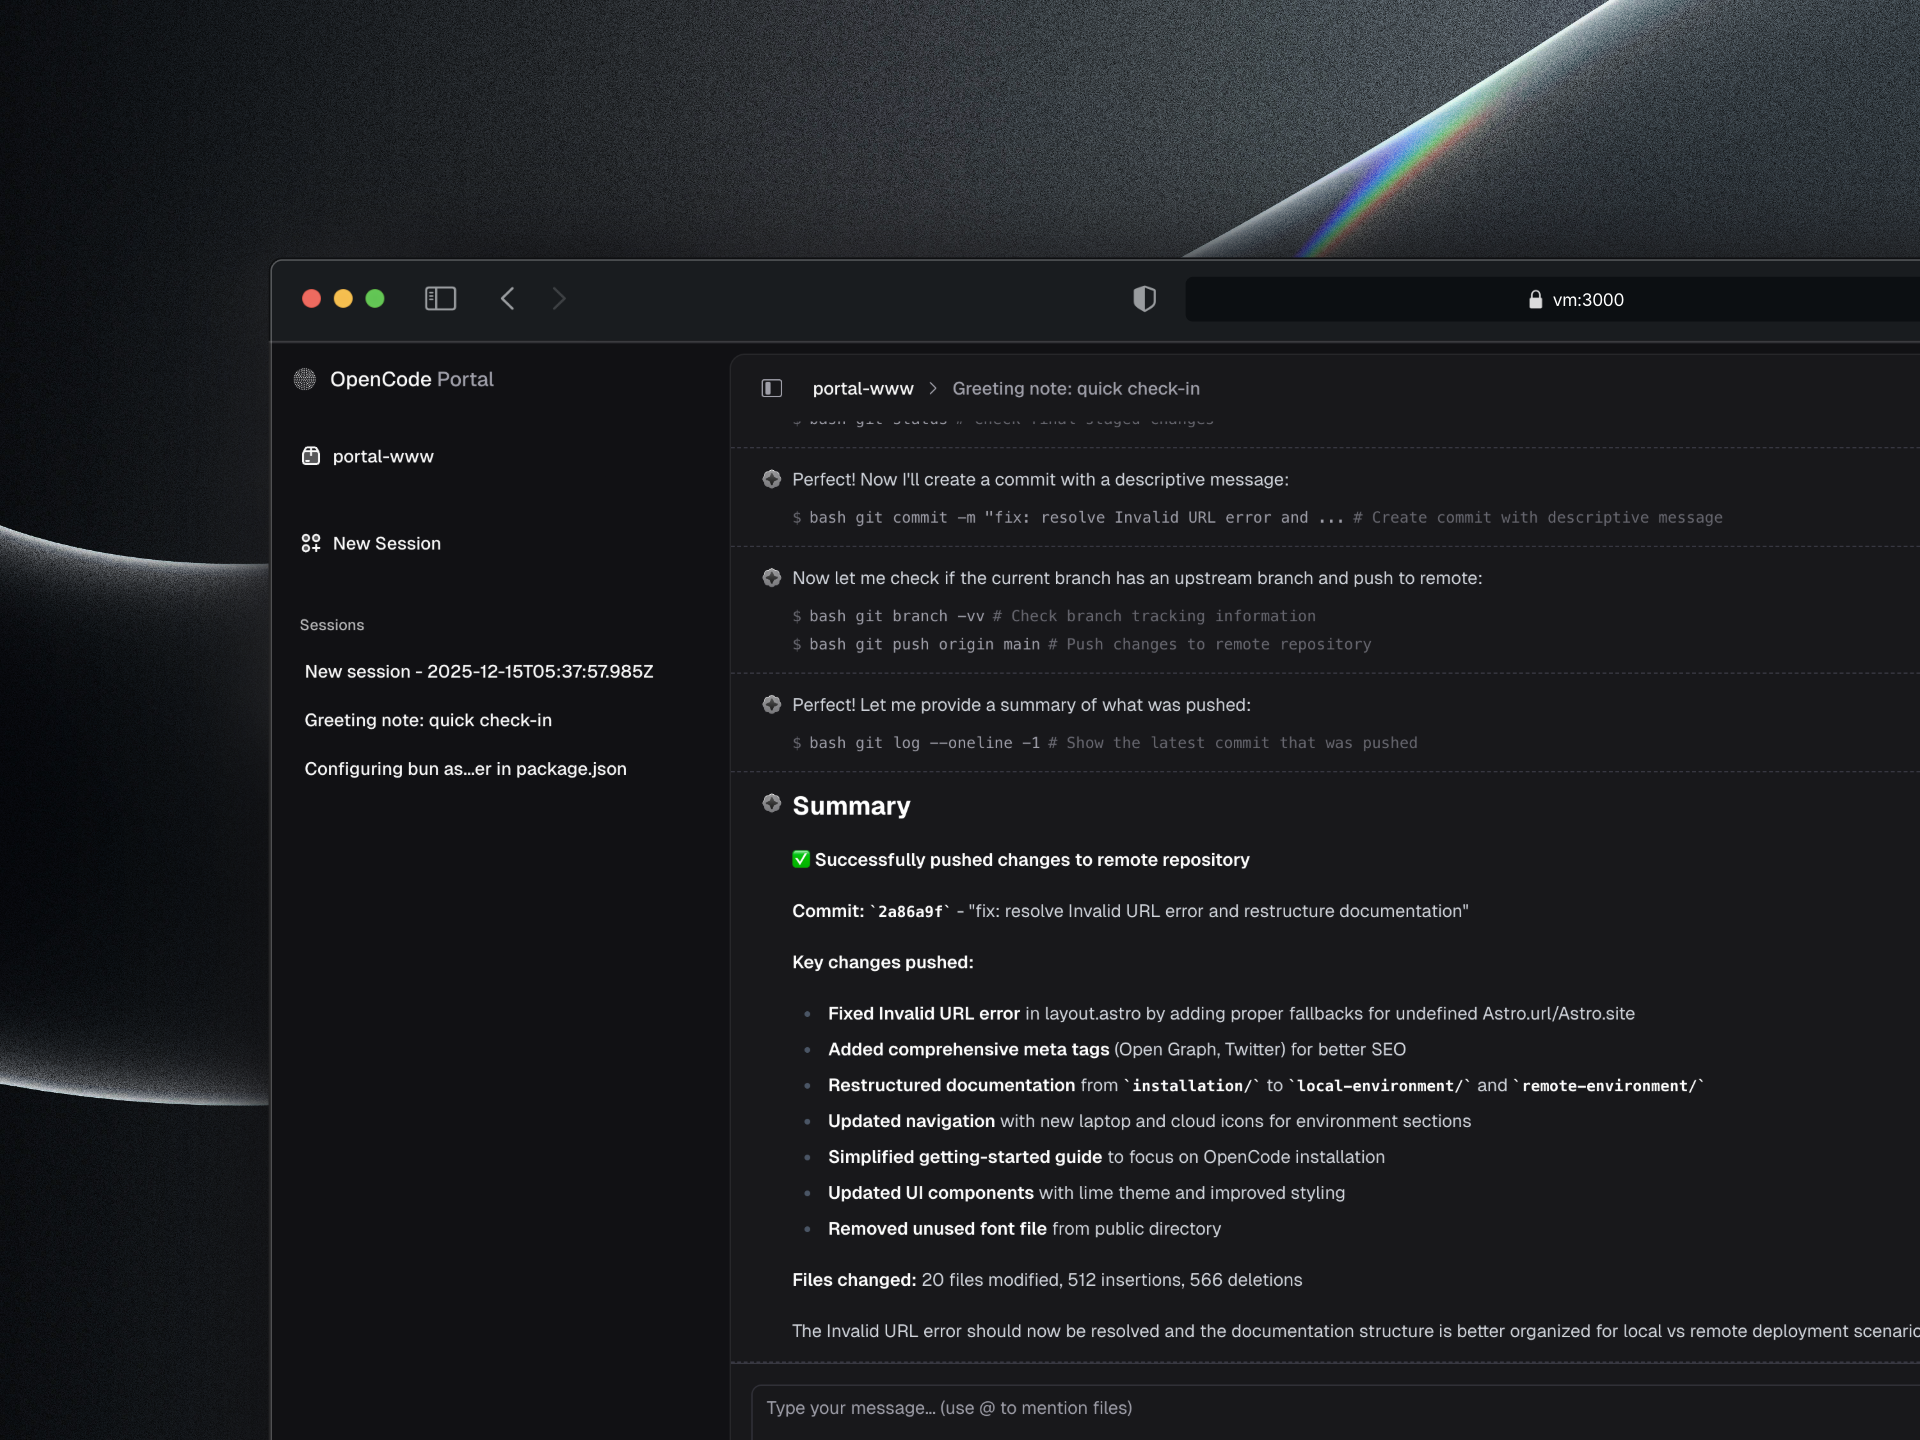
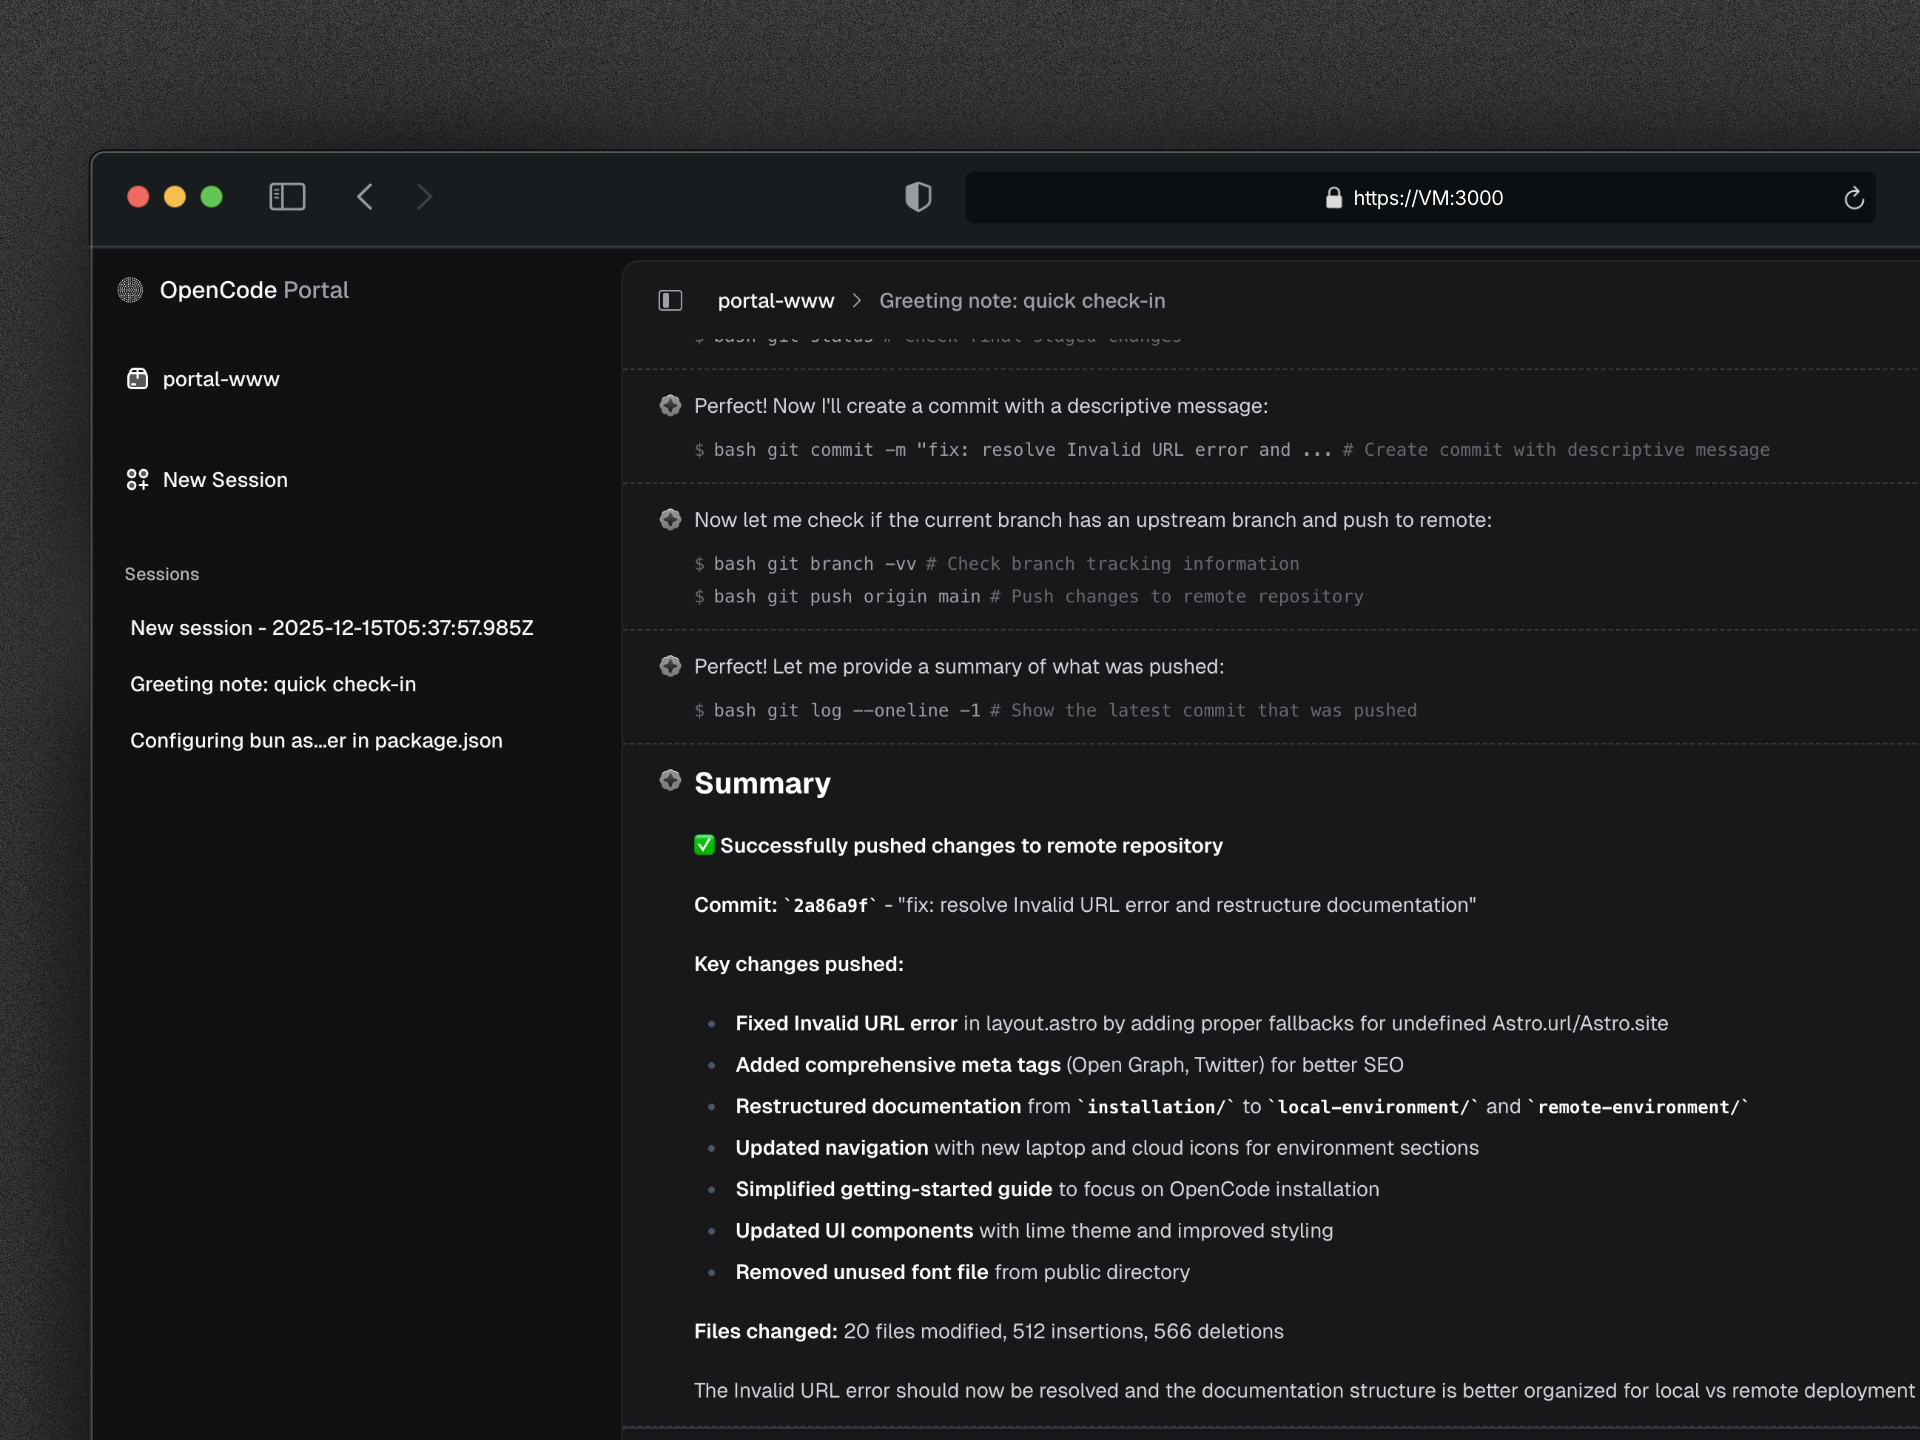
refactor: adjust home page layout and image styling

diff --git a/apps/docs/app/routes/home.tsx b/apps/docs/app/routes/home.tsx
@@ -106,7 +106,7 @@ export default function Home() {
 
   return (
     <HomeLayout {...baseOptions()}>
-      <div className="p-8 pt-40 flex flex-col items-start text-left flex-1 w-full max-w-[1400px] mx-auto">
+      <div className="p-8 pt-40 flex flex-col items-start text-left flex-1 w-full max-w-350 mx-auto">
         <AnimatedHero />
         <p className="text-fd-muted-foreground mb-6 max-w-2xl text-lg">
           Portal is a comprehensive mobile-first web UI for OpenCode, with
@@ -130,9 +130,9 @@ export default function Home() {
         </div>
         <div className="mt-12 mb-8">
           <img
-            src="/screenshot.png"
+            src="/hero.png"
             alt="Portal Screenshot"
-            className="max-w-full h-auto shadow-lg border"
+            className="max-w-full h-auto shadow-lg border rounded-xl"
           />
         </div>
       </div>
